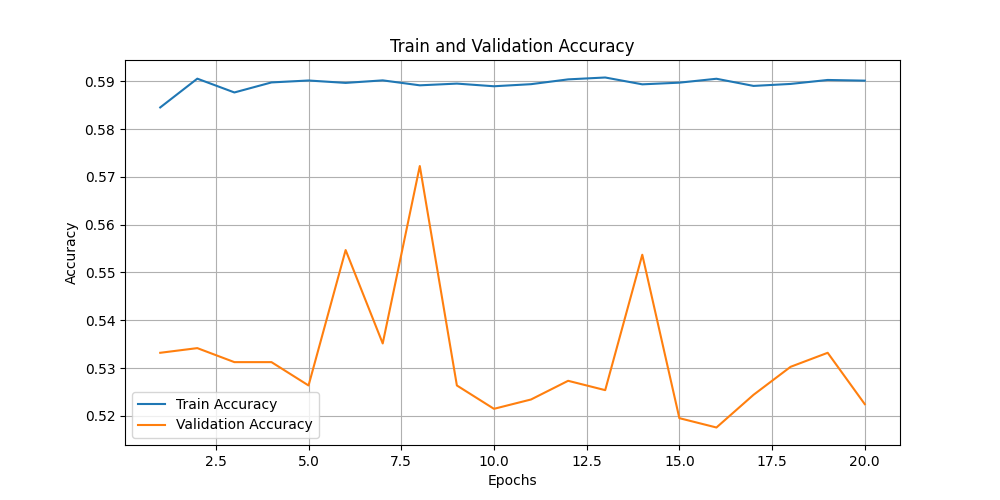
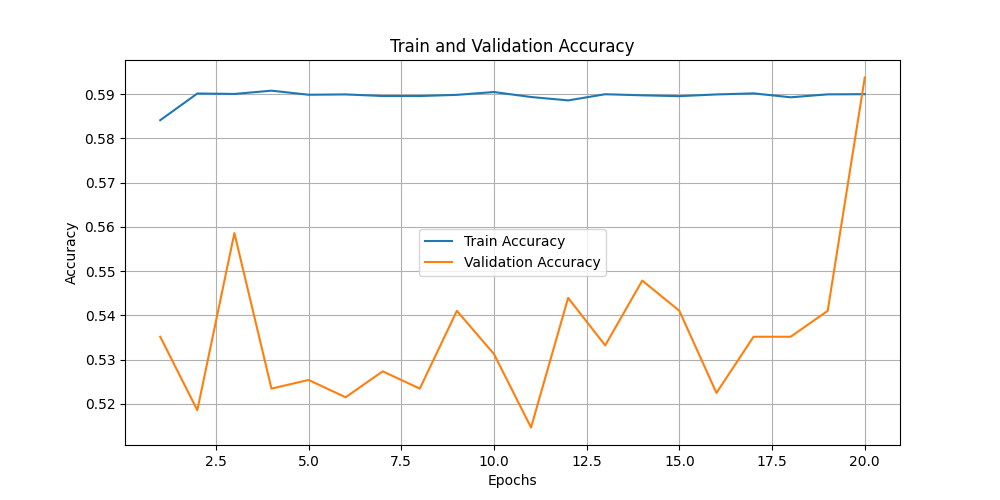
new

diff --git a/exercise_blanks.py b/exercise_blanks.py
@@ -401,7 +401,7 @@ def evaluate(model, data_iterator, criterion, data_manager=None):
     epoch_acc_negated = 0
     if data_manager:
         dataset = data_manager.get_dataset()
-        sentences = data_manager.get_sentences(TRAIN)
+        sentences = data_manager.get_sentences(TEST)
         rare_words_examples_indices = get_rare_words_examples(sentences, dataset)
         negated_polarity_examples_indices = get_negated_polarity_examples(sentences)
 
